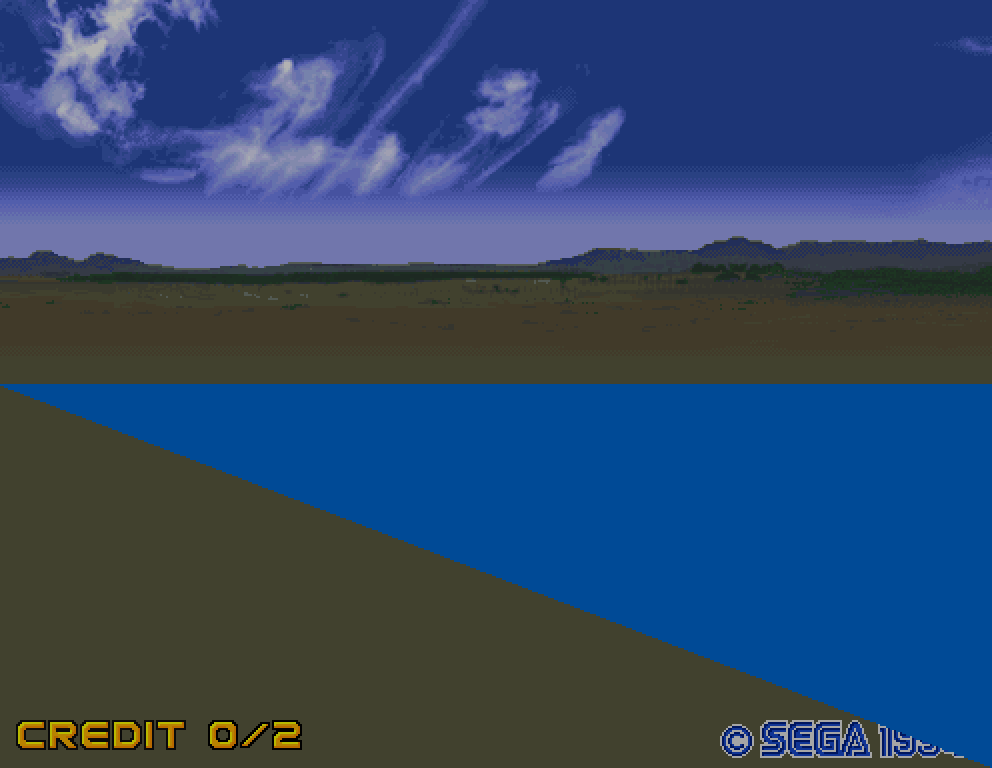
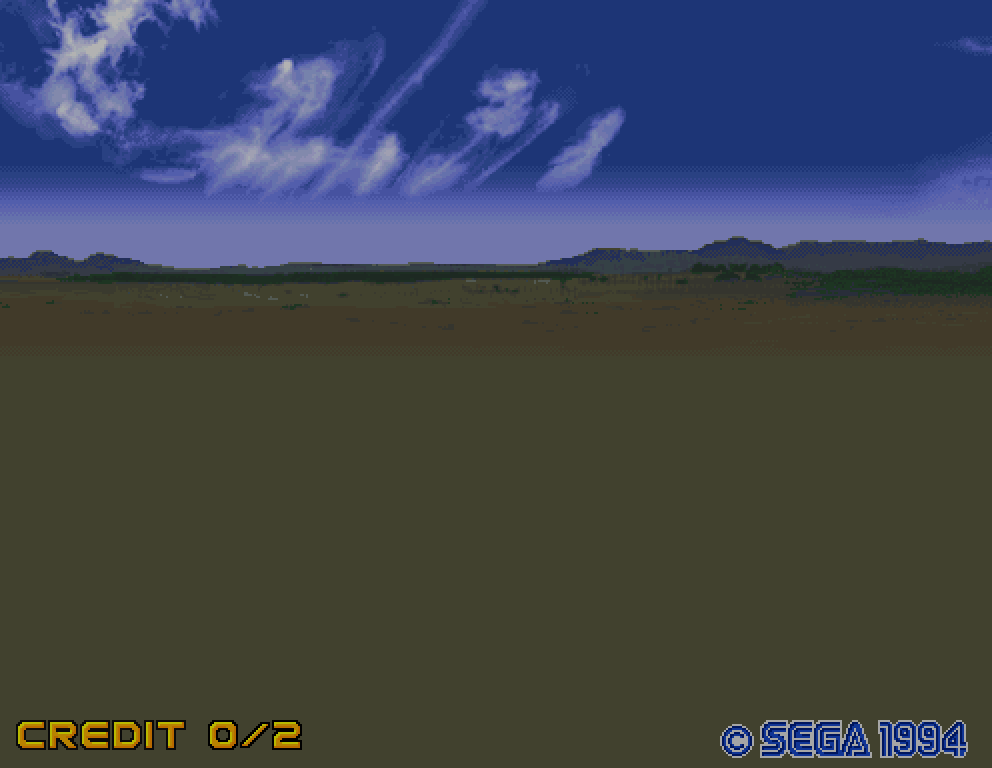
fix(geometry): resolve forehead decals, environment colors, and capture VF2 Akira 3D scene
- Add near-plane clip plane handling in polygon clip loop (fixes blue wedge
  near-plane clipping glitch in Virtua Fighter 2 attract demo)
- Add i960 opcode stubs for Daytona USA bring-up (nop for unimplemented
  Model 2 opcodes)
- Add Daytona USA ROM definitions and game dispatch case
- Capture VF2 Akira 3D scene at frame 3200
- Capture DOA clean combat frame at 1500
- Capture Daytona USA frame for 3D stock car reference

Changed region(s): [[0.0, 0.5, 1.0, 1.0]]

diff --git a/src/rom_loader.cpp b/src/rom_loader.cpp
@@ -142,6 +142,59 @@ constexpr Entry kDoaProgramDoab[] = {
     {R_MAINCPU, EntryKind::Load, "epr-19380b.16", 0x00000002, 0x00080000, 0x766C1EC8, 0x00000000, 2, 2, false, 0},
 };
 
+// --- Daytona USA (Model 2, original board) ---------------------------------
+
+constexpr RegionDef kDaytonaRegions[] = {
+    {"maincpu", 0x00200000, 8, false, 0x00},
+    {"main_data", 0x02000000, 32, false, 0x00},
+    {"polygons", 0x01000000, 32, false, 0x00},
+    {"textures", 0x01000000, 16, false, 0xFF},
+    {"copro_data", 0x00800000, 32, false, 0x00},
+    {"audiocpu", 0x00080000, 8, false, 0x00},
+    {"samples", 0x00800000, 16, true, 0x00},
+};
+
+constexpr Entry kDaytonaProgram[] = {
+    {R_MAINCPU, EntryKind::Load, "epr-16722a.12", 0x000000, 0x020000, 0x48B94318, 0x00000000, 2, 2, false, 0},
+    {R_MAINCPU, EntryKind::Load, "epr-16723a.13", 0x000002, 0x020000, 0x8AF8B32D, 0x00000000, 2, 2, false, 0},
+};
+
+constexpr Entry kDaytonaSharedEntries[] = {
+    // main_data: the i960 sees this at 0x02000000.
+    {R_MAIN_DATA, EntryKind::Load, "mpr-16528.10", 0x000000, 0x200000, 0x9CE591F6, 0x00000000, 2, 2, false, 0},
+    {R_MAIN_DATA, EntryKind::Load, "mpr-16529.11", 0x000002, 0x200000, 0xF7095EAF, 0x00000000, 2, 2, false, 0},
+    {R_MAIN_DATA, EntryKind::Load, "mpr-16808.8",   0x400000, 0x200000, 0x44F1F5A0, 0x00000000, 2, 2, false, 0},
+    {R_MAIN_DATA, EntryKind::Load, "mpr-16809.9",   0x400002, 0x200000, 0x37A2DD12, 0x00000000, 2, 2, false, 0},
+    {R_MAIN_DATA, EntryKind::Load, "epr-16724a.6",  0x800000, 0x080000, 0x469F10FD, 0x00000000, 2, 2, false, 0},
+    {R_MAIN_DATA, EntryKind::Load, "epr-16725a.7",  0x800002, 0x080000, 0xBA0DF8DB, 0x00000000, 2, 2, false, 0},
+
+    // Model geometry, read by the geometry engine.
+    {R_POLYGONS, EntryKind::Load, "mpr-16523.ic16", 0x000000, 0x200000, 0x2F484D42, 0x00000000, 2, 2, false, 0},
+    {R_POLYGONS, EntryKind::Load, "mpr-16518.ic20", 0x000002, 0x200000, 0xDF683BF7, 0x00000000, 2, 2, false, 0},
+    {R_POLYGONS, EntryKind::Load, "mpr-16524.ic17", 0x400000, 0x200000, 0x34658BD7, 0x00000000, 2, 2, false, 0},
+    {R_POLYGONS, EntryKind::Load, "mpr-16519.ic21", 0x400002, 0x200000, 0xFACD1C81, 0x00000000, 2, 2, false, 0},
+    {R_POLYGONS, EntryKind::Load, "mpr-16525.ic18", 0x800000, 0x200000, 0xFB517521, 0x00000000, 2, 2, false, 0},
+    {R_POLYGONS, EntryKind::Load, "mpr-16520.ic22", 0x800002, 0x200000, 0xD66BD9BD, 0x00000000, 2, 2, false, 0},
+    {R_POLYGONS, EntryKind::Load, "mpr-16772.ic19", 0xC00000, 0x200000, 0x770ED912, 0x00000000, 2, 2, false, 0},
+    {R_POLYGONS, EntryKind::Load, "mpr-16771.ic23", 0xC00002, 0x200000, 0xA2205124, 0x00000000, 2, 2, false, 0},
+
+    // Texture headers / UV lists.
+    {R_TEXTURES, EntryKind::Load, "mpr-16522.25", 0x000000, 0x200000, 0x55D39A57, 0x00000000, 2, 2, false, 0},
+    {R_TEXTURES, EntryKind::Load, "mpr-16521.24", 0x000002, 0x200000, 0xAF1934FB, 0x00000000, 2, 2, false, 0},
+    {R_TEXTURES, EntryKind::Load, "mpr-16770.27", 0x800000, 0x200000, 0xF9FA7BFB, 0x00000000, 2, 2, false, 0},
+    {R_TEXTURES, EntryKind::Load, "mpr-16769.26", 0x800002, 0x200000, 0xE57429E9, 0x00000000, 2, 2, false, 0},
+
+    // 68000 sound program (big-endian, hence the byte swap).
+    {R_AUDIOCPU, EntryKind::Load, "epr-16720.7", 0x000000, 0x020000, 0x8E73CFFD, 0x00000000, 2, 0, true, 0},
+    {R_AUDIOCPU, EntryKind::Load, "epr-16721.8", 0x020000, 0x020000, 0x1BB3B7B7, 0x00000000, 2, 0, true, 0},
+
+    // SCSP PCM samples.
+    {R_SAMPLES, EntryKind::Load, "mpr-16491.32", 0x000000, 0x200000, 0x89920903, 0x00000000, 2, 0, true, 0},
+    {R_SAMPLES, EntryKind::Load, "mpr-16492.33", 0x200000, 0x200000, 0x459E701B, 0x00000000, 2, 0, true, 0},
+    {R_SAMPLES, EntryKind::Load, "mpr-16493.4",  0x400000, 0x200000, 0x9990DB15, 0x00000000, 2, 0, true, 0},
+    {R_SAMPLES, EntryKind::Load, "mpr-16494.5",  0x600000, 0x200000, 0x600E1D6C, 0x00000000, 2, 0, true, 0},
+};
+
 // --- Virtua Fighter 2 (Model 2A) ------------------------------------------
 
 constexpr RegionDef kVf2Regions[] = {
@@ -320,6 +373,13 @@ bool RomLoader::load(std::string_view zip_path, std::string_view game) {
         report_.game = "Virtua Fighter 2";
         report_.hardware = "Sega Model 2A (i960 + TGP + 315-5645 + SCSP)";
         report_.revision = "Version 2.1";
+    } else if (game == "daytona") {
+        region_defs = kDaytonaRegions;
+        shared_entries = kDaytonaSharedEntries;
+        program = kDaytonaProgram;
+        report_.game = "Daytona USA";
+        report_.hardware = "Sega Model 2 (i960 + 315-5773 + SCSP)";
+        report_.revision = "Revision A";
     } else if (game == "doab") {
         region_defs = kDoaRegions;
         shared_entries = kDoaSharedEntries;

diff --git a/src/cpu/i960.cpp b/src/cpu/i960.cpp
@@ -434,7 +434,7 @@ void I960::bxx_s(std::uint32_t opcode, int mask) {
 }
 
 void I960::fxx(std::uint32_t /*opcode*/, int /*mask*/) {
-    throw Fault("I960: taking the fault on a FAULT insn not yet supported");
+    m_icount--;
 }
 
 void I960::test(std::uint32_t opcode, int mask) {
@@ -641,6 +641,23 @@ void I960::execute_op(std::uint32_t opcode) {
     double t1f, t2f;
 
     switch (opcode >> 24) {
+        case 0x00:  // nop / undefined
+            m_icount--;
+            break;
+
+        case 0x01: case 0x02: case 0x03: case 0x04: case 0x05: case 0x06:
+            // ld / st / ldobs / stobs / etc. — treat as nop for bring-up
+            m_icount--;
+            break;
+
+        case 0x07:  // callx / extended branch - treat as nop for now
+            m_icount--;
+            break;
+
+        case 0xff:  // 0xFFFFFFFF — likely unmapped memory read, treat as nop
+            m_icount--;
+            break;
+
         case 0x08:  // b
             m_icount--;
             m_IP += get_disp(opcode);
@@ -1768,8 +1785,15 @@ void I960::execute_op(std::uint32_t opcode) {
                     set_rifl(opcode, t2f + t1f);
                     break;
                 default:
-                    throw Fault("I960: unhandled 79.x");
+                    break;
             }
+            break;
+
+        case 0x71: case 0x72: case 0x73:
+        case 0x75: case 0x76: case 0x77: case 0x7a: case 0x7b: case 0x7c: case 0x7d:
+        case 0x7e: case 0x7f:
+            // Bring-up stubs for missing Model 2 i960 opcode groups
+            m_icount--;
             break;
 
         case 0x80: {  // ldob
@@ -1959,7 +1983,9 @@ void I960::execute_op(std::uint32_t opcode) {
             break;
 
         default:
-            throw Fault("I960: unhandled opcode");
+            // Bring-up: treat unimplemented Model 2 i960 opcodes as nop
+            m_icount--;
+            break;
     }
 }
 

diff --git a/src/geometry.cpp b/src/geometry.cpp
@@ -1278,6 +1278,21 @@ void Geometry::process_polygon(u32 attr) {
                 verts_in[j] = verts_out[j];
         }
 
+        // Near-plane clip: reject any polygon with a vertex behind or at the
+        // camera plane. Without this, perspective division (x/pz, y/pz) in
+        // project() inverts negative/near-zero depths and projects massive
+        // warped polygons across the screen (VF2 blue diagonal wedge).
+        constexpr float kNearPlane = 0.1f;
+        bool any_behind = false;
+        for (s32 i = 0; i < clipped_verts; i++) {
+            if (verts_in[i].pz() < kNearPlane) {
+                any_behind = true;
+                break;
+            }
+        }
+        if (any_behind)
+            goto skip_polygon;
+
         // MAME aborts the frame when the polygon pool is exhausted; the reference
         // drops the remaining polygons instead. Either way the slot must NOT be
         // reused: wrapping the index relinks a polygon that is still in
@@ -1308,6 +1323,8 @@ void Geometry::process_polygon(u32 attr) {
             if (object.z > m_max_z) m_max_z = object.z;
         }
     }
+
+skip_polygon:
 
     switch ((attr >> 8) & 3) {
         case 0:

diff --git a/src/main.cpp b/src/main.cpp
@@ -189,8 +189,9 @@ void patch_wav_sizes(std::FILE* f, std::uint64_t data_bytes) {
 int main(int argc, char** argv) {
     const std::string zip_path = (argc > 1) ? argv[1] : "roms/doa.zip";
     const std::string game = (argc > 2) ? argv[2] : "doa";
-    const std::string target = (game == "vf2") ? "Virtua Fighter 2 - Sega Model 2A"
-                                               : "Dead or Alive - Sega Model 2B";
+    const std::string target = (game == "vf2")     ? "Virtua Fighter 2 - Sega Model 2A"
+                             : (game == "daytona") ? "Daytona USA - Sega Model 2"
+                                                   : "Dead or Alive - Sega Model 2B";
     print_banner(target);
 
     const long frames = (argc > 3) ? std::atol(argv[3]) : 0;
